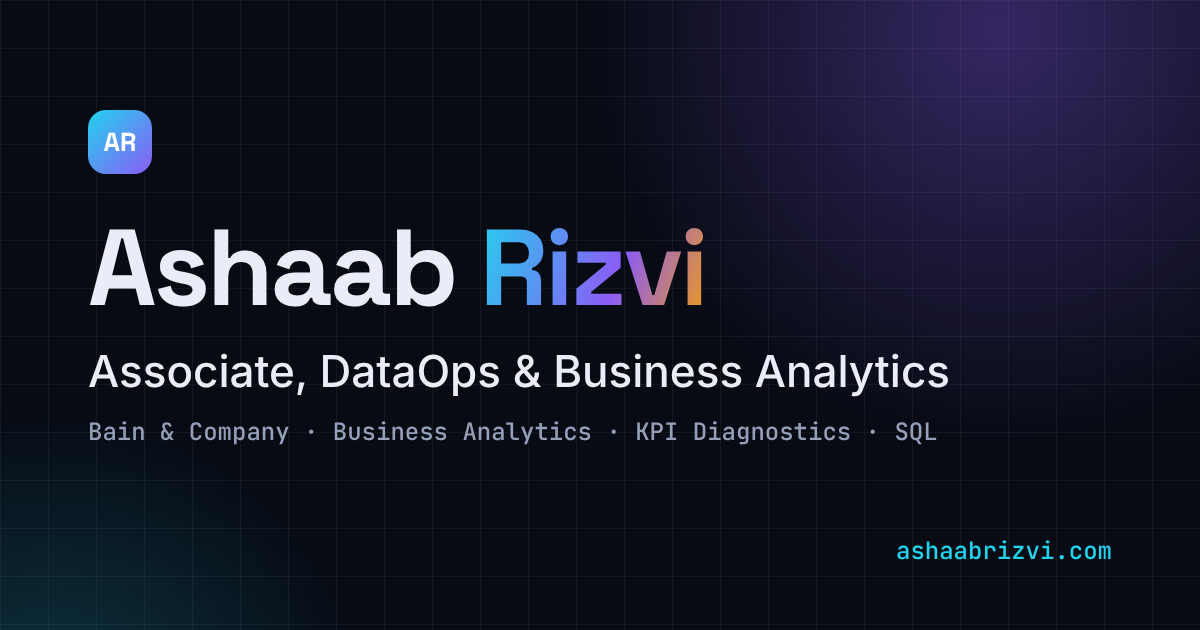
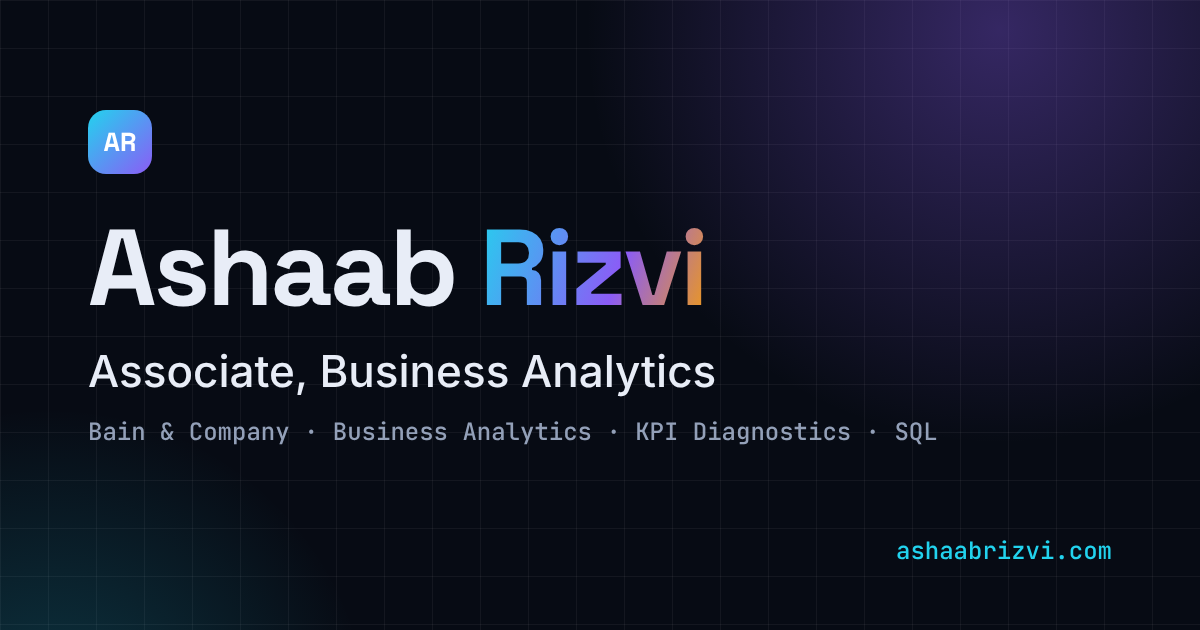
Associate, Business Analytics title and new hero line
Claude-Session: https://claude.ai/code/session_018761Ur5A8oaEDSU4kRjjFm

Changed region(s): [[0.2775, 0.5429, 0.8017, 0.6333]]

diff --git a/index.html b/index.html
@@ -22,14 +22,14 @@ layout: null
 <meta property="og:image" content="{{ '/assets/og/og-image.png' | absolute_url }}">
 <meta property="og:image:width" content="1200">
 <meta property="og:image:height" content="630">
-<meta property="og:image:alt" content="Ashaab Rizvi, Associate, DataOps &amp; Business Analytics">
+<meta property="og:image:alt" content="Ashaab Rizvi, Associate, Business Analytics at Bain &amp; Company">
 <meta name="twitter:card" content="summary_large_image">
 <meta name="twitter:title" content="{{ site.title }}">
 <meta name="twitter:description" content="{{ site.description }}">
 <meta name="twitter:image" content="{{ '/assets/og/og-image.png' | absolute_url }}">
 
 <script type="application/ld+json">
-{"@context":"https://schema.org","@type":"Person","name":"Ashaab Rizvi","jobTitle":"Associate, DataOps & Business Analytics","worksFor":{"@type":"Organization","name":"Bain & Company"},"url":{{ site.url | jsonify }},"sameAs":[{{ site.linkedin_url | jsonify }}]}
+{"@context":"https://schema.org","@type":"Person","name":"Ashaab Rizvi","jobTitle":"Associate, Business Analytics","worksFor":{"@type":"Organization","name":"Bain & Company"},"url":{{ site.url | jsonify }},"sameAs":[{{ site.linkedin_url | jsonify }}]}
 </script>
 
 <link rel="preconnect" href="https://fonts.googleapis.com">
@@ -63,9 +63,9 @@ layout: null
 
 <main id="top">
 <section class="hero">
-  <p class="eyebrow"><span class="pulse"></span> Associate, DataOps &amp; Business Analytics at Bain &amp; Company</p>
+  <p class="eyebrow"><span class="pulse"></span> Associate, Business Analytics at Bain &amp; Company</p>
   <h1>Ashaab <span class="grad">Rizvi</span></h1>
-  <p class="lead">I turn large-scale retail and consumer data into client-ready insights: KPI diagnostics, executive storylines and automated, quality-checked delivery with <b>Snowflake</b>, <b>SQL</b> and AI-assisted automation.</p>
+  <p class="lead">I find out <b>why business numbers move</b> and turn large-scale retail and consumer data into <b>clear, client-ready recommendations</b>.</p>
   <div class="cta">
     <a class="btn primary" href="#work">See my work</a>
     {% comment %} TODO: resume button shows once resume_ready is true in _config.yml {% endcomment %}
@@ -145,7 +145,7 @@ layout: null
   <div class="timeline">
     <article class="job card spot">
       <header>
-        <div><h3>Associate, DataOps &amp; Business Analytics</h3><p class="org">Bain &amp; Company</p></div>
+        <div><h3>Associate, Business Analytics</h3><p class="org">Bain &amp; Company</p></div>
         <span class="when">Jun 2025 to Present</span>
       </header>
       <p class="impact">Turned KPI movements into client-ready insights for 10+ clients, on monthly deliveries automated with a 3-layer QC framework that cut turnaround by ~60%.</p>

diff --git a/README.md b/README.md
@@ -1,6 +1,6 @@
 # ashaabrizvi.com
 
-Personal portfolio of Ashaab Rizvi, Associate, DataOps & Business Analytics. Live at [ashaabrizvi.com](https://ashaabrizvi.com).
+Personal portfolio of Ashaab Rizvi, Associate, Business Analytics at Bain & Company. Live at [ashaabrizvi.com](https://ashaabrizvi.com).
 
 ## Stack
 
